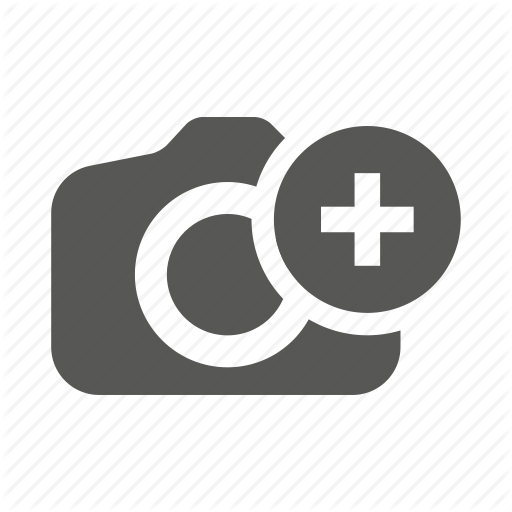
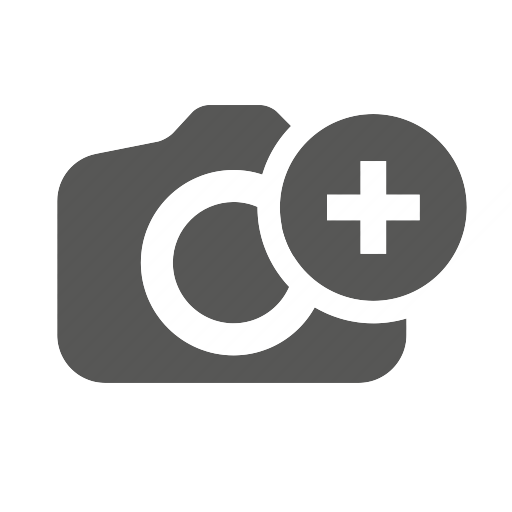
Bugs in panel control fixed

diff --git a/espacios/js/validates.js b/espacios/js/validates.js
@@ -492,7 +492,8 @@ function validatePermissions() {
 
     for (var i = 0; i < checkbox.length; i++) {
         if (checkbox[i].checked) {
-            checkboxChecked.push({"idFunction":checkbox[i].value.substr(0,1), "idAction":checkbox[i].value.substr(2,3)});
+            var ids = checkbox[i].value.split(',');
+            checkboxChecked.push({"idFunction": ids[0], "idAction":ids[1]});
         }
     }
     document.getElementById("permissions").value = JSON.stringify(checkboxChecked);

diff --git a/espacios/css/style.css b/espacios/css/style.css
@@ -316,7 +316,8 @@ p{
 }
 
 .control-label {
-	color: #ACACAC;
+	color: #636c72;
+	margin-left: 10%;
 } 
 
 

diff --git a/espacios/model/USER_Model.php b/espacios/model/USER_Model.php
@@ -162,15 +162,14 @@ class USER_Model {
             }else if($this->getPhoto('name') !== '' && empty($this->password)){
                 $photoBD =$this->dirPhoto.$this->getPhoto('name');
                 $sql = "UPDATE `SM_USER` SET sm_photo = '$photoBD', sm_name = '$this->name', sm_surname = '$this->surname', sm_dni = '$this->dni', sm_birthdate = '$dateBD', sm_email = '$this->email', sm_phone = '$this->phone' WHERE sm_username = '$this->username'";
-                $this->updateDirPhoto();
                 unlink($this->getLinkProfilePhoto());
+                $this->updateDirPhoto();
             } else {
                 $photoBD =$this->dirPhoto.$this->getPhoto('name'); 
                 $sql = "UPDATE `SM_USER` SET sm_photo = '$photoBD', sm_passwd = '$this->password', sm_name = '$this->name', sm_surname = '$this->surname', sm_dni = '$this->dni', sm_birthdate = '$dateBD', sm_email = '$this->email', sm_phone = '$this->phone' WHERE sm_username = '$this->username'";
-                $this->updateDirPhoto();
                 unlink($this->getLinkProfilePhoto());
+                $this->updateDirPhoto(); 
             }
-
             if (!($resultado = $this->mysqli->query($sql))) {
                 return 'Error in the query on the database';
             } else {
@@ -185,14 +184,11 @@ class USER_Model {
 
         $errors = $this->checkIsValidForDelete();
         if($errors === false){
+            $this->deleteDirPhoto();
             $sql = "DELETE FROM `SM_USER` WHERE sm_username ='$this->username'";
             if (!($resultado = $this->mysqli->query($sql))) {
                 return 'Error in the query on the database';
             } else {
-                if(is_file($this->getLinkProfilePhoto())){
-                    unlink($this->getLinkProfilePhoto());
-                }
-                rmdir($this->dirPhoto);
                 return true;
             }
         } else {
@@ -228,14 +224,19 @@ class USER_Model {
 
     public function updateDirPhoto() {
         if (!is_dir($this->dirPhoto)) {
-            mkdir($this->dirPhoto, 0777);
+            mkdir($this->dirPhoto, 0777, true);
         }
-    
-        if ($this->getPhoto('name') !== '') {
-            move_uploaded_file($this->getPhoto('tmp_name'), $this->dirPhoto.$this->getPhoto('name'));
+        if ($this->getPlaneFloor('name') !== '') {
+            move_uploaded_file($this->getPlaneFloor('tmp_name'), $this->dirPhoto.$this->getPlaneFloor('name'));
         }
     }
 
+    public function deleteDirPhoto() {
+        if(file_exists($this->getLinkPlane())){
+            unlink($this->getLinkPlane());
+        }
+        return (rmdir($this->dirPhoto));
+    }
 
     public function existsUser() {
         $sql = "SELECT * FROM `SM_USER` WHERE sm_username = '$this->username'";

diff --git a/espacios/view/SPACE_SHOW_View.php b/espacios/view/SPACE_SHOW_View.php
@@ -23,31 +23,6 @@ class SPACE_SHOW{
 					<div class="col-lg-12 center-block-content">
             <div id="group-form">
 
-								<!-- <div class="inputWithIcon inputIconBg">
-									<input type="text" name="idSpace" placeholder="<?= $strings['What is the identifier of this space?']?>" value="<?= $this->space['idBuilding'].$this->space['idFloor'].$this->space['idSpace']?>" readonly>
-									<i class="fa fa-cube fa-lg fa-fw" aria-hidden="true"></i>
-								</div>
-
-								<div class="inputWithIcon inputIconBg">
-									<input type="text" name="nameSpace" placeholder="<?= $strings['What space is it?']?>" value="<?=$this->space['nameSpace']?>" readonly>
-									<i class="fa fa-reorder fa-lg fa-fw" aria-hidden="true"></i>
-								</div>
-
-								<div class="inputWithIcon inputIconBg">
-									<input type="text" name="surfaceSpace" placeholder="<?= $strings['What is the surface of space?']?>" value="<?=$this->space['surfaceSpace']?>" readonly>
-									<i class="fa fa-area-chart fa-lg fa-fw" aria-hidden="true"></i>
-								</div>
-
-								<div class="inputWithIcon inputIconBg">
-									<input type="text" name="numberInventorySpace" placeholder="<?= $strings['What is the number inventory?']?>" value="<?=$this->space['numberInventorySpace']?>" readonly>
-									<i class="fa fa-barcode fa-lg fa-fw" aria-hidden="true"></i>
-								</div>
-
-								<div class="inputWithIcon inputIconBg">
-									<a href="SPACE_Controller.php?action=<?= $strings['ShowSpacePlane']?>&building=<?= $this->space['idBuilding']?>&floor=<?= $this->space['idFloor']?>&space=<?= $this->space['idSpace']?>"><img src='<?= $this->plane; ?>' class="avatarPlane"></a>
-								</div> -->
-
-
 								<div class="input-container">
 									<span class="input-group-text fa fa-cube"></span>
 									<input type="text" id="idSpace" name="idSpace" value="<?=$this->space['sm_idSpace']?>" readonly>
@@ -72,6 +47,7 @@ class SPACE_SHOW{
 									<label for="numberInventorySpace"><?= $strings['sm_numberInventorySpace']?></label>
 								</div>
 
+								<label class="control-label"><?= $strings['Click to see the plane']?></label>
 								<div class="inputWithIcon inputIconBg">
 									<a href="SPACE_Controller.php?action=<?= $strings['ShowSpacePlane']?>&building=<?= $this->space['sm_idBuilding']?>&floor=<?= $this->space['sm_idFloor']?>&space=<?= $this->space['sm_idSpace']?>"><img src='<?= $this->plane; ?>' class="avatarPlane" onchange="validateUpdloadFile(this.id)"></a>
 								</div>

diff --git a/espacios/model/FLOOR_Model.php b/espacios/model/FLOOR_Model.php
@@ -104,10 +104,7 @@ class FLOOR_Model {
                 if($this->getPlaneFloor('name') == ''){
                     $sql = "UPDATE `SM_FLOOR` SET sm_idFloor = '$this->idFloor', sm_nameFloor = '$this->nameFloor', sm_surfaceBuildingFloor = '$this->surfaceBuildingFloor', sm_surfaceUsefulFloor = '$this->surfaceUsefulFloor' WHERE sm_idBuilding = '$this->idBuilding' AND sm_idFloor = '$this->idFloor'";
                 } else {
-                    if(is_file($this->getLinkPlane())){
-                        unlink($this->getLinkPlane());
-                    }
-                    rmdir($this->dirPhoto);
+                    $this->deleteDirPhoto();
                     $planeFloorBD =$this->dirPhoto.$this->getPlaneFloor('name');
                     $sql = "UPDATE `SM_FLOOR` SET sm_idFloor = '$this->idFloor', sm_nameFloor = '$this->nameFloor', sm_planeFloor = '$planeFloorBD', sm_surfaceBuildingFloor = '$this->surfaceBuildingFloor', sm_surfaceUsefulFloor = '$this->surfaceUsefulFloor' WHERE sm_idBuilding = '$this->idBuilding' AND sm_idFloor = '$this->idFloor'";
                     $this->updateDirPhoto();
@@ -126,14 +123,13 @@ class FLOOR_Model {
     }
 
     public function deleteFloor() {
-
         $errors = $this->checkIsValidForDelete();
         if($errors === false){
+            $this->deleteDirPhoto();
             $sql = "DELETE FROM `SM_FLOOR` WHERE sm_idBuilding ='$this->idBuilding' AND sm_idFloor = '$this->idFloor'";
             if (!($resultado = $this->mysqli->query($sql))) {
                 return 'Error in the query on the database';
             } else {
-                rmdir($this->dirPhoto);
                 return true;
             }
         }else{
@@ -173,14 +169,19 @@ class FLOOR_Model {
     }
 
     public function updateDirPhoto() {
-
         if (!is_dir($this->dirPhoto)) {
-            mkdir($this->dirPhoto, 0777);
+            mkdir($this->dirPhoto, 0777, true);
         }
-
         if ($this->getPlaneFloor('name') !== '') {
             move_uploaded_file($this->getPlaneFloor('tmp_name'), $this->dirPhoto.$this->getPlaneFloor('name'));
         }
+    }
+
+    public function deleteDirPhoto() {
+        if(file_exists($this->getLinkPlane())){
+            unlink($this->getLinkPlane());
+        }
+        return (rmdir($this->dirPhoto));
     }
 
     public function existsFloor() {

diff --git a/espacios/view/header.php b/espacios/view/header.php
@@ -92,13 +92,13 @@
                             <?php } elseif($_SESSION['LANGUAGE'] === 'English') { ?>
                                 <img src="../img/uk.png" alt="lang" class="languageFlag">
                             <?php } else { ?>
-                                <img src="../img/galicia2.png" alt="lang" class="languageFlag">
+                                <img src="../img/galician.png" alt="lang" class="languageFlag">
                             <?php } ?>
                         </a>
                         <div class="dropdown-menu languages" aria-labelledby="navbarDropdownLang">
                             <?php if($_SESSION['LANGUAGE'] === 'Castellano') { ?>
                                 <a href="../core/CambioIdioma.php?idioma=Galego">
-                                    <img src="../img/galicia2.png" alt="lang" class="languageFlag">
+                                    <img src="../img/galician.png" alt="lang" class="languageFlag">
                                 </a>
                                 <div class="dropdown-divider"></div>
                                 <a href="../core/CambioIdioma.php?idioma=English">
@@ -114,7 +114,7 @@
                                 </a>
                             <?php } elseif($_SESSION['LANGUAGE'] === 'English') { ?>
                                 <a href="../core/CambioIdioma.php?idioma=Galego">
-                                    <img src="../img/galician.gif" alt="lang" class="languageFlag">
+                                    <img src="../img/galician.png" alt="lang" class="languageFlag">
                                 </a>
                                 <div class="dropdown-divider"></div>
                                 <a href="../core/CambioIdioma.php?idioma=Castellano">

diff --git a/espacios/controller/FUNCTIONALITY_Controller.php b/espacios/controller/FUNCTIONALITY_Controller.php
@@ -47,17 +47,14 @@ Switch ($_GET['action']){
         if (isset($_POST["submit"])) { 
             $functionAdd = get_data_form();
             $actions = json_decode($_POST["actions"]);
-            var_dump($actions);
-            exit();
             $addAnswer = $functionAdd->addFunction($actions);
-            if($addAsnwer === true){
+            if($addAnswer === true){
                 $flashMessageSuccess = sprintf($strings["Functionality \"%s\" successfully added."], $functionAdd->getNameFunction());
                 $view->setFlashSuccess($flashMessageSuccess);
                 $view->redirect("FUNCTIONALITY_Controller.php");
-
             }else{
                 $view->setFlashDanger($strings[$addAsnwer]);
-                $view->redirect("BUILDING_Controller.php", $strings['Add']);
+                $view->redirect("FUNCTIONALITY_Controller.php", $strings['Add']);
 
             }
                 
@@ -103,7 +100,7 @@ Switch ($_GET['action']){
             }else{
                 //$view->setFlashDanger($strings[$editAnswer]);
                 var_dump($editAnswer);
-                //$view->redirect("FUNCTIONALITY_Controller.php", $strings['Edit'], 'function='.$functionId);
+                $view->redirect("FUNCTIONALITY_Controller.php", $strings['Edit'], 'function='.$functionId);
             }
         } else {
 
@@ -195,7 +192,7 @@ Switch ($_GET['action']){
         }
 
         $function = new FUNCTIONALITY_Model();
-        $functions = $function->showAllFunctions();
+        $functions = $function->getAllFunctions();
         new FUNCTIONALITY_SHOWALL($functions);
             
     break;

diff --git a/espacios/model/FUNCTIONALITY_Model.php b/espacios/model/FUNCTIONALITY_Model.php
@@ -77,7 +77,7 @@ class FUNCTIONALITY_Model {
             $sqlFunction = "INSERT INTO `SM_FUNCTIONALITY` (sm_nameFunction, sm_descripFunction) VALUES ('$this->nameFunction', '$this->descripFunction')";
             if (!($resultado = $this->mysqli->query($sqlFunction))) {
                 return 'Error in the query on the database';
-            } else {
+            }else {
                 $lastId = $this->mysqli->insert_id;
                 foreach($actions as $action){
                     $sqlFunctionAction = "INSERT INTO `SM_FUNCTIONALITY_ACTION` (sm_idFunction, sm_idAction) VALUES ($lastId, $action->id)";
@@ -87,7 +87,6 @@ class FUNCTIONALITY_Model {
                 }
                 return true;
             }
-            return 'Error in the query on the database';
         }else{
             return $errors;
         }

diff --git a/espacios/view/USER_ADD_View.php b/espacios/view/USER_ADD_View.php
@@ -38,7 +38,7 @@ class USER_ADD{
 							<div id="group-form">
 
 								<div id="profilePhoto-container" class="profilePhoto-frame">
-									<img id="profilePhoto" alt="<?= $strings['ProfilePhoto']?>" src="../img/camera2.png" onclick="uploadProfilePhoto()"/>
+									<img id="profilePhoto" alt="<?= $strings['ProfilePhoto']?>" src="../img/camera.png" onclick="uploadProfilePhoto()"/>
 									<input id="imageUpload" type="file" name="photo" accept="image/*" onchange="previewProfilePhoto(this)">
 								</div> 
 
